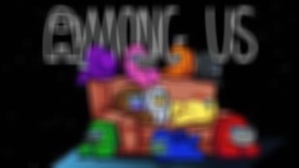
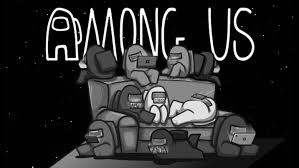
push de fin de journée

diff --git a/imagefilter/image.py b/imagefilter/image.py
@@ -4,17 +4,14 @@ import sys
 
 def open_image():
 
-
+        
         image = cv2.imread('amongus.jpeg')
+        print("l'image est ouverte")
         return image
-
-
-
-
-
 def nb(image):
     try:
         gray = cv2.cvtColor(image, cv2.COLOR_BGR2GRAY)
+        print("l'image est noir est blanc")
         return gray
     except:
         print("l'image n'est pas bonne")
@@ -24,7 +21,7 @@ def blur(image):
 
         ksize = (10, 10)
         blur = cv2.blur(image, ksize)
-
+        print("l'image est floue")
         return blur
     except:
         print("l'image n'est pas bonne ou la valeur du flou est negative")
@@ -33,15 +30,14 @@ def dilate(image):
     try:
         kernel = np.ones((5, 5), np.uint8)
         dilation = cv2.dilate(image,kernel ,20)
+        print("l'image est dilate")
         return dilation
     except:
         print("l'image n'est pas bonne")
         sys.exit()
 def save(imageToSave):
     cv2.imwrite('imagesvg/image.jpeg', imageToSave)
+    print("l'image est sauvegarder")
 
 
 
-image = open_image()
-dilatation = blur(image)
-save(dilatation)

diff --git a/imagefilter/main.py b/imagefilter/main.py
@@ -1,2 +1,23 @@
 import cv2
+import sys
+import image as i
+
+args = sys.argv
+image = ""
+
+if args[1] == "open":
+    image = i.open_image()
+    if args[2] == "nb":
+        image = i.nb(image)
+        i.save(image)
+    elif args[2] == "blur":
+        image = i.blur(image)
+        i.save(image)
+    elif args[2] == "dilate":
+        image = i.dilate(image)
+        i.save(image)
+if args[1] == "--filter":
+    option = args[2]
+    option = option.split("|")
+
 
